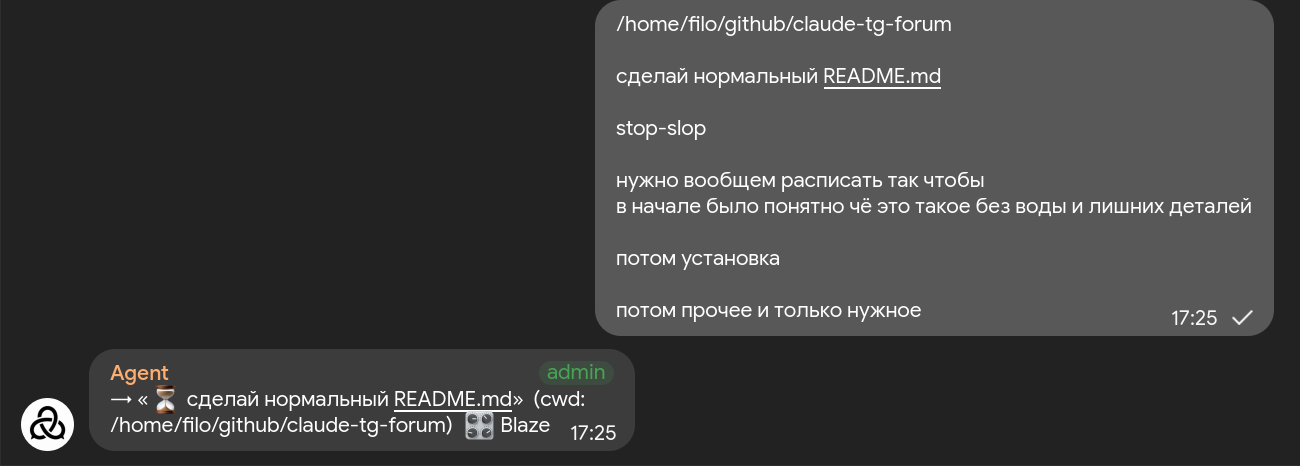
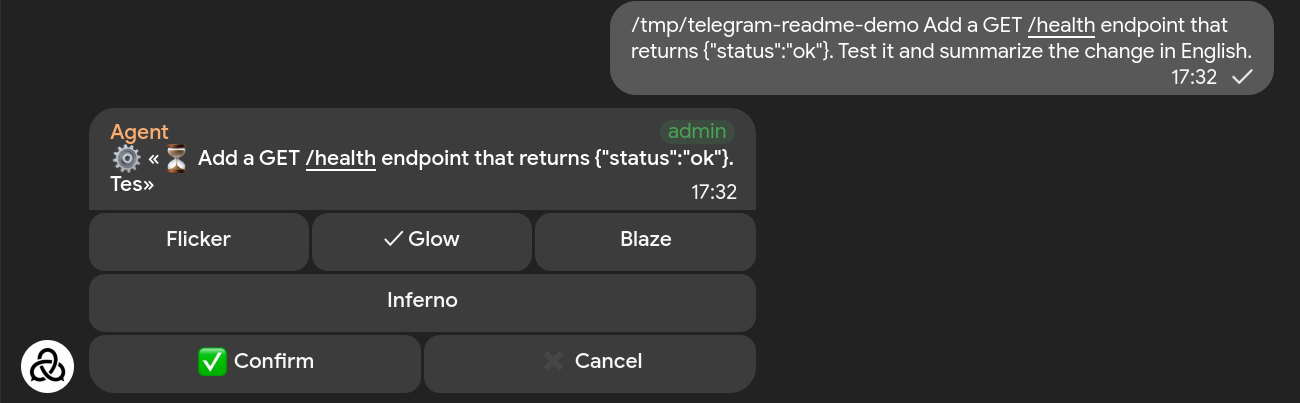
Replace personal screenshots with an English demo session

diff --git a/README.md b/README.md
@@ -11,7 +11,7 @@ Telegram user.
 
 <img src="docs/screenshots/session.png" alt="A session in Materialgram showing the task, Cancel button, usage summary, and agent's reply" width="640">
 
-An actual session in Materialgram: the agent updating this README.
+A demo session in Materialgram: adding and testing a health endpoint.
 
 ## Installation
 
@@ -102,7 +102,7 @@ PROJECTS={"myrepo":"/home/you/projects/myrepo"}
 The third uses an absolute path. The new topic remembers the directory, so you
 only need the prefix when starting a session.
 
-![A launcher message with a project path and the bot's link to the new session topic, shown in Materialgram](docs/screenshots/launcher.png)
+![An English demo task and the session preset picker in Materialgram](docs/screenshots/launcher.png)
 
 Within a topic, send messages, photos, or files. Images go to the agent as
 images; other attachments are saved locally and passed as file paths. The agent
